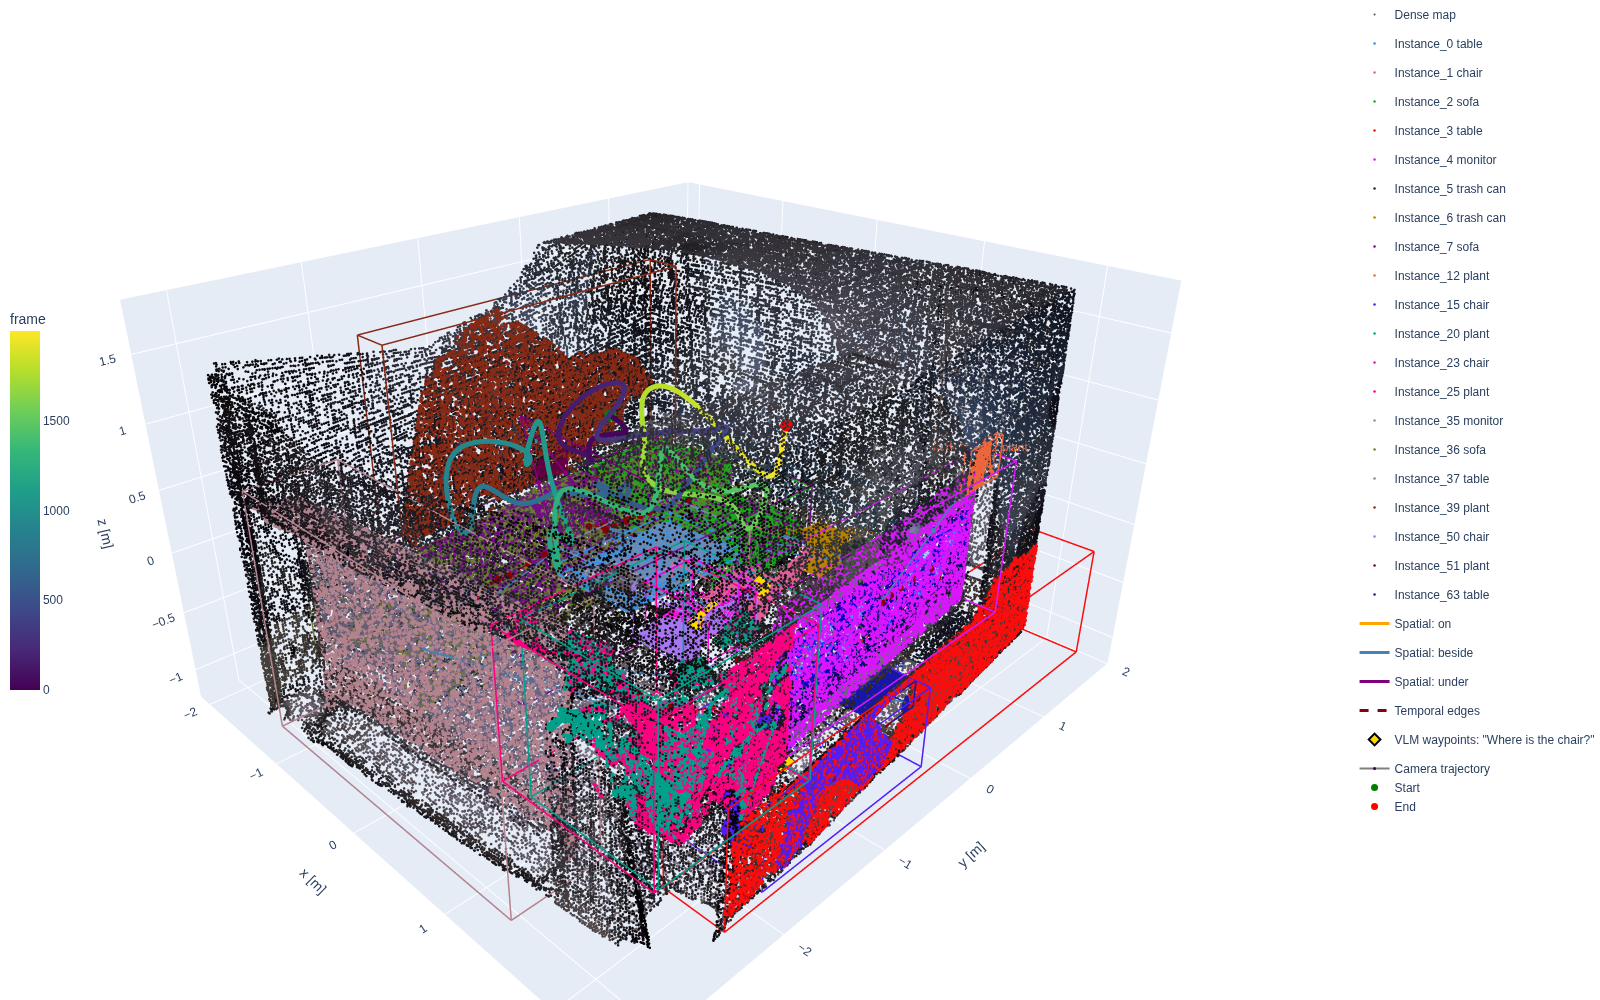
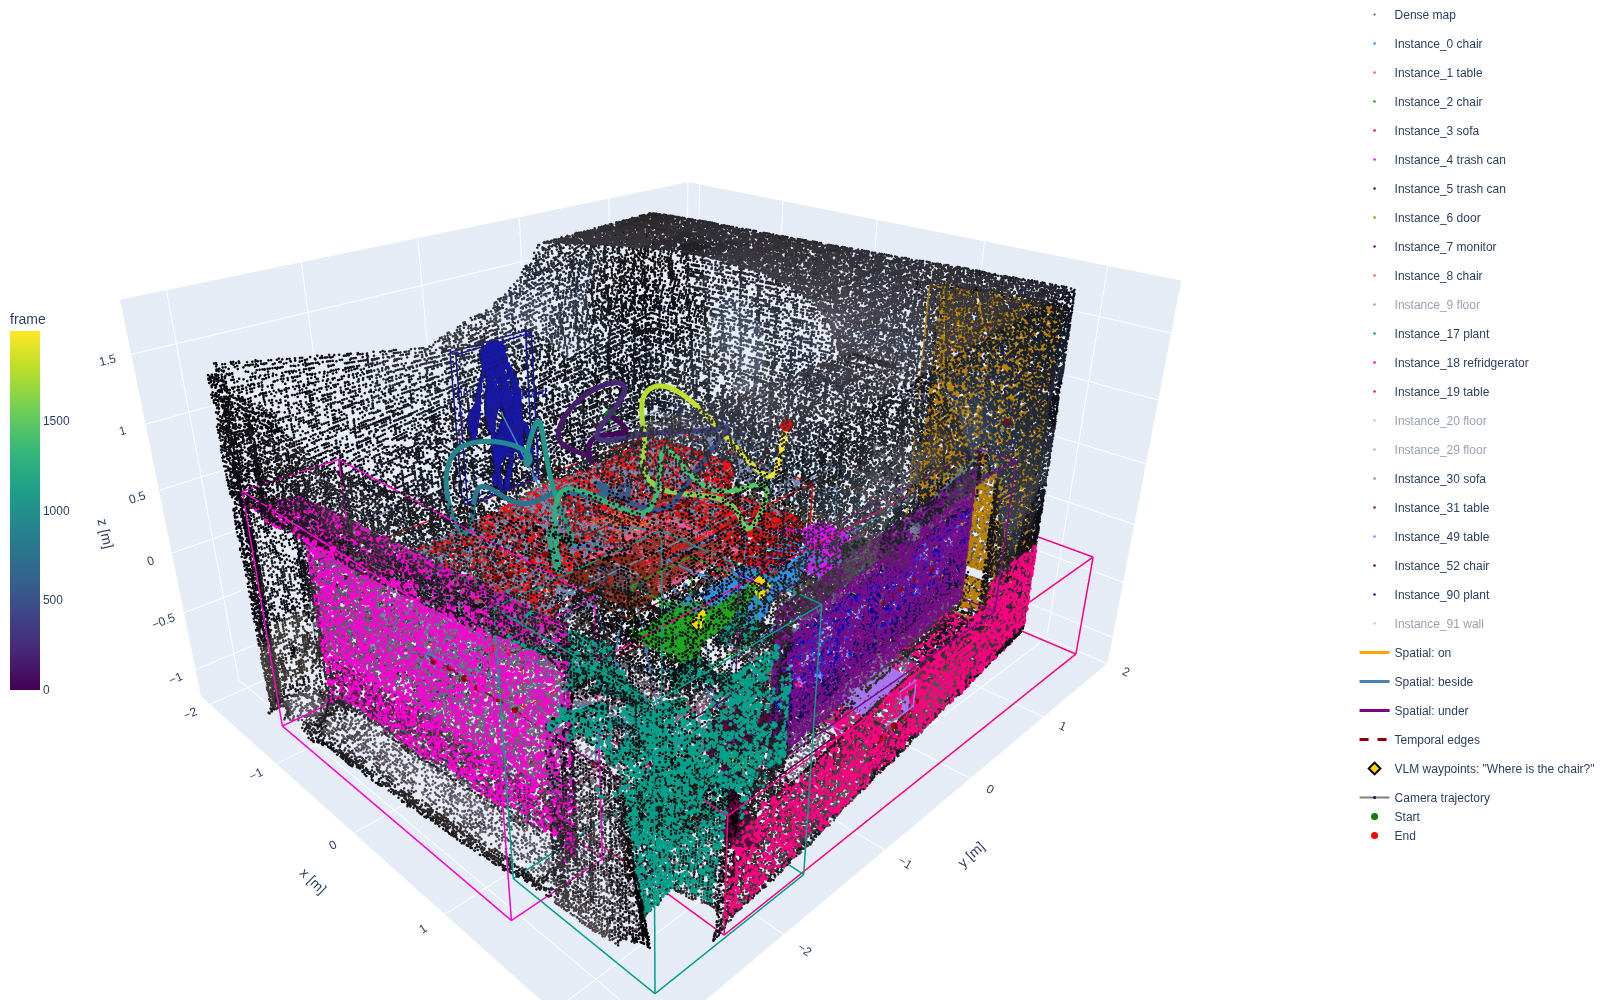
Fix subset.yaml self-copy (I-16-1); viewer hides wall/floor/ceiling by default; README images from the 23-class run

diff --git a/scripts/visualize.py b/scripts/visualize.py
@@ -27,6 +27,8 @@ from supermap.datasets import build_sequence  # noqa: E402
 from supermap.geometry.extrinsics import camera_pose_at  # noqa: E402
 
 REL_COLORS = {"on": "orange", "beside": "steelblue", "under": "purple"}
+# background classes start hidden (legend click shows them); they would cover the furniture
+HIDDEN_LABELS = {"wall", "floor", "ceiling"}
 # 12 edges of a box given corner indices (bit0=x, bit1=y, bit2=z)
 BOX_EDGES = [(0, 1), (2, 3), (4, 5), (6, 7), (0, 2), (1, 3), (4, 6), (5, 7), (0, 4), (1, 5), (2, 6), (3, 7)]
 
@@ -84,9 +86,10 @@ def instance_traces(pts: dict, graph: dict, max_pts: int) -> tuple[list[go.Scatt
         sel = sel[_sample(len(sel), max_pts)]
         drawn += len(sel)
         p = pts["object_points"][sel]
+        vis = "legendonly" if node["label"] in HIDDEN_LABELS else True
         traces.append(go.Scatter3d(x=p[:, 0], y=p[:, 1], z=p[:, 2], mode="markers", name=name,
                                    legendgroup=group, marker=dict(size=2.5, color=color),
-                                   hovertext=name, hoverinfo="text"))
+                                   hovertext=name, hoverinfo="text", visible=vis))
         lo, hi = np.asarray(node["bbox"], dtype=float)
         corners = np.array([[(hi if i >> a & 1 else lo)[a] for a in range(3)] for i in range(8)])
         seg = np.full((len(BOX_EDGES) * 3, 3), np.nan)
@@ -96,11 +99,11 @@ def instance_traces(pts: dict, graph: dict, max_pts: int) -> tuple[list[go.Scatt
                                    y=[None if np.isnan(v) else v for v in seg[:, 1]],
                                    z=[None if np.isnan(v) else v for v in seg[:, 2]],
                                    mode="lines", line=dict(color=color, width=3),
-                                   legendgroup=group, showlegend=False, hoverinfo="skip"))
+                                   legendgroup=group, showlegend=False, hoverinfo="skip", visible=vis))
         c = node["centroid"]
         traces.append(go.Scatter3d(x=[c[0]], y=[c[1]], z=[c[2]], mode="text", text=[text],
                                    textfont=dict(color=color), legendgroup=group,
-                                   showlegend=False, hoverinfo="skip"))
+                                   showlegend=False, hoverinfo="skip", visible=vis))
     known = {n["id"] for n in graph["nodes"]}
     rest = np.flatnonzero(~np.isin(ids, list(known)))
     if len(rest):

diff --git a/src/supermap/run.py b/src/supermap/run.py
@@ -10,6 +10,7 @@ Outputs in <dir> (world frame W, meters; t = stream index, D-008):
     graph.json        nodes, spatial edges E_s, temporal edges E_t, disappeared ids
     serialized.txt    schema + local subgraph + spatio-temporal cues (REQ-052..REQ-056)
     run_summary.json  frame counts, N_T, module run counts, VLM status
+    subset.yaml       copy of the subset file this run was started with
 """
 from __future__ import annotations
 
@@ -111,7 +112,9 @@ def run(config: str | Path, subset: str | Path, out: str | Path) -> dict:
     seq = build_sequence(ds_cfg, sub, base_dir=REPO_ROOT)
     out = Path(out)
     out.mkdir(parents=True, exist_ok=True)
-    shutil.copyfile(subset, out / "subset.yaml")  # REQ-062: keep the subset used by this run next to its outputs
+    # REQ-062: keep the subset used by this run next to its outputs (skip when it already is that file)
+    if Path(subset).resolve() != (out / "subset.yaml").resolve():
+        shutil.copyfile(subset, out / "subset.yaml")
     pipe = SuperMapPipeline(cfg, pose_provider=seq.pose_provider, T_BC=seq.T_BC)
     print(f"dataset={name} scene={ds_cfg['scene']} frames={len(seq)} rates={pipe.scheduler.rates}", flush=True)
 

diff --git a/README.ko.md b/README.ko.md
@@ -168,13 +168,13 @@ subset 파일은 데이터셋, 장면, 프레임 범위를 고른다(`configs/su
 .venv/bin/python scripts/visualize.py outputs/office0   # -> outputs/office0/viz.html
 ```
 
-dense map, 인스턴스별 점/박스/라벨, 공간 엣지(on/beside/under)와 시간 엣지, VLM 웨이포인트, 카메라 궤적을 보여 주며 범례에서 각각 켜고 끌 수 있다. \
+dense map, 인스턴스별 점/박스/라벨, 공간 엣지(on/beside/under)와 시간 엣지, VLM 웨이포인트, 카메라 궤적을 보여 주며 범례에서 각각 켜고 끌 수 있다(wall / floor / ceiling 인스턴스는 가구를 가리므로 처음엔 꺼져 있다). \
 파일 하나로 완결되어 어떤 브라우저에서도 열린다. 카메라 궤적에는 subset 파일이 필요하다(`--subset`, 기본값은 출력 폴더의 `subset.yaml`, 없으면 `configs/subset_replica_office0.yaml`). \
 `--png <path>`를 주면 정적 이미지도 저장한다(`uv pip install kaleido` 후 `.venv/bin/plotly_get_chrome` 필요).
 
 ![office0 전체 2000 프레임 실행 결과](docs/images/office0_full_orbit.gif)
 
-위 그림은 office0 2000 프레임 실행 결과(인스턴스 20개, 공간 엣지 33개, 시간 엣지 48개, 103초)로, 인스턴스 점과 박스, 프레임 순서로 색을 입힌 카메라 궤적, "Where is the chair?"에 대한 VLM 웨이포인트(노란 마름모)를 보여 준다. \
+위 그림은 office0 2000 프레임 실행 결과(인스턴스 21개, 공간 엣지 45개, 시간 엣지 59개, 106초)로, 인스턴스 점과 박스, 프레임 순서로 색을 입힌 카메라 궤적, "Where is the chair?"에 대한 VLM 웨이포인트(노란 마름모)를 보여 준다. \
 범례가 있는 정지 이미지: [docs/images/office0_full_viz.png](docs/images/office0_full_viz.png).
 
 `configs/default.yaml`에 모든 파라미터가 키마다 주석과 함께 들어 있다. \

diff --git a/README.md b/README.md
@@ -166,13 +166,13 @@ Turn an output folder into a single HTML file you can explore in a browser:
 .venv/bin/python scripts/visualize.py outputs/office0   # -> outputs/office0/viz.html
 ```
 
-It shows the dense map, per-instance points, boxes and labels, spatial (on/beside/under) and temporal edges, VLM waypoints, and the camera trajectory; each can be toggled in the legend. \
+It shows the dense map, per-instance points, boxes and labels, spatial (on/beside/under) and temporal edges, VLM waypoints, and the camera trajectory; each can be toggled in the legend (wall / floor / ceiling instances start hidden because they cover the furniture). \
 The file is self-contained and opens in any browser. The trajectory needs the subset file (`--subset`; defaults to `subset.yaml` in the output folder, else `configs/subset_replica_office0.yaml`). \
 `--png <path>` also saves a static image (needs `uv pip install kaleido` and `.venv/bin/plotly_get_chrome`).
 
 ![office0 full 2000-frame run](docs/images/office0_full_orbit.gif)
 
-The animation above is the full office0 run (2000 frames, 20 instances, 33 spatial and 48 temporal edges, 103 s): instance points and boxes, the camera trajectory colored by frame index, and the VLM waypoints (yellow diamonds) for "Where is the chair?". \
+The animation above is the full office0 run (2000 frames, 21 instances, 45 spatial and 59 temporal edges, 106 s): instance points and boxes, the camera trajectory colored by frame index, and the VLM waypoints (yellow diamonds) for "Where is the chair?". \
 Static image with the legend: [docs/images/office0_full_viz.png](docs/images/office0_full_viz.png).
 
 `configs/default.yaml` holds every parameter with a comment per key. \
